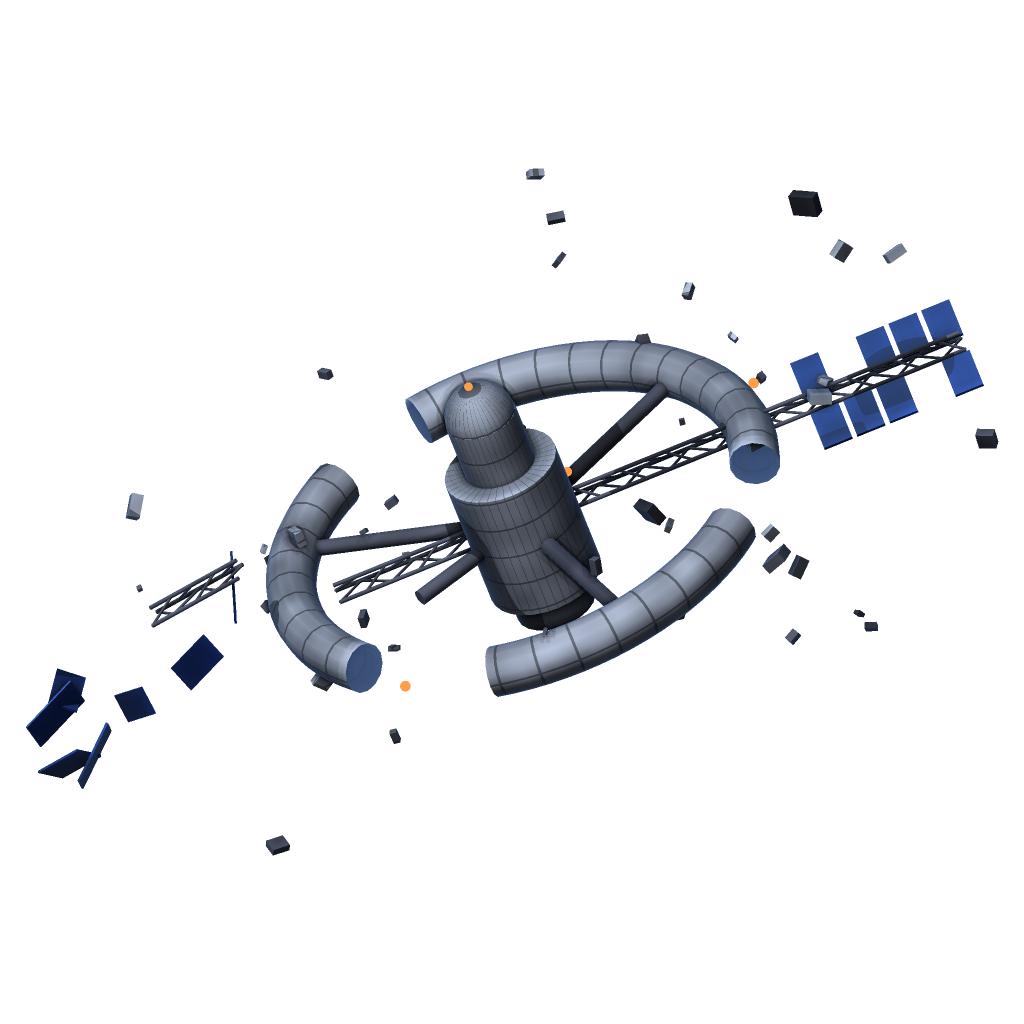
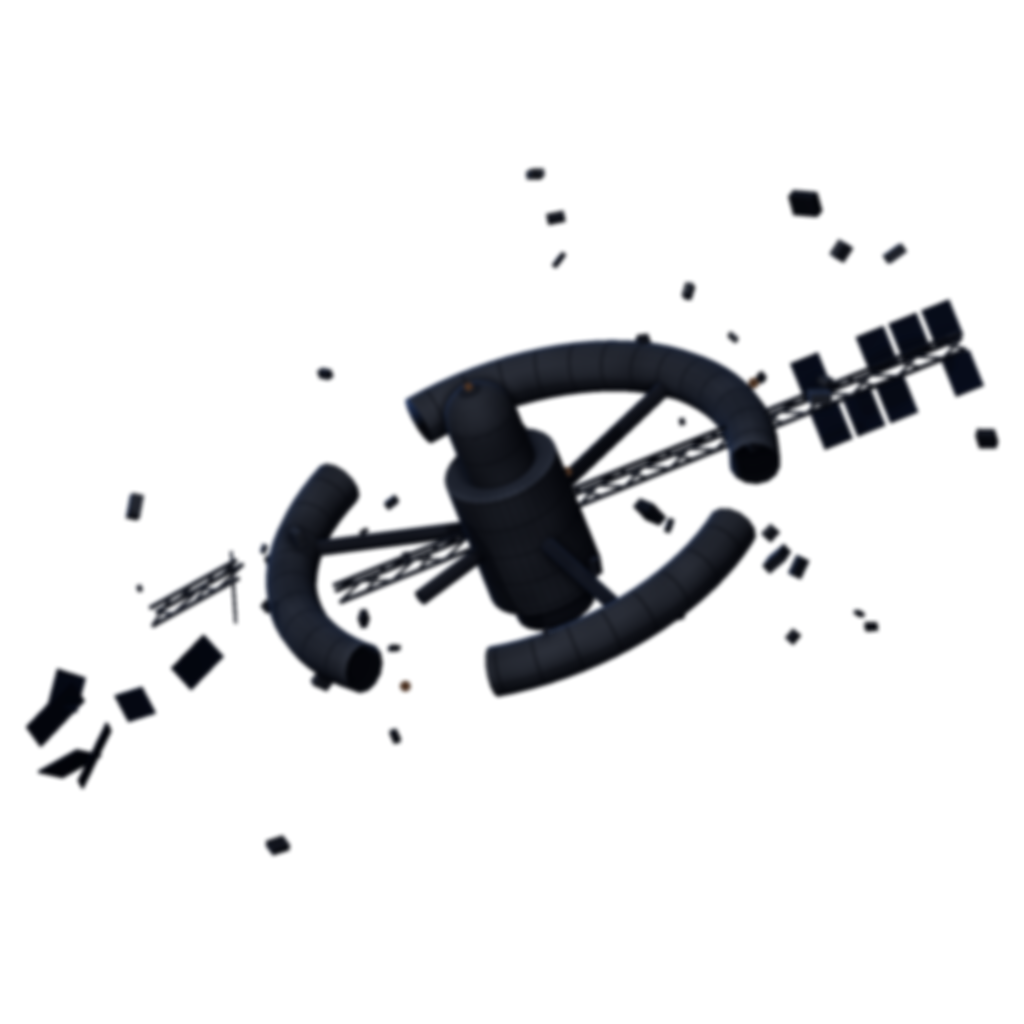
Station wreck backdrop: far, shadowed and soft, drifts slower
Rendered almost unlit with a thin cold rim, sunk into blue haze, slightly blurred, lights nearly off.

diff --git a/Assets/Filip/Tools~/StationBake.cs b/Assets/Filip/Tools~/StationBake.cs
@@ -171,6 +171,40 @@ public static class StationBake
         Sphere(V(10.9, 2.2, 0.6), 0.22, 3); Sphere(V(-7.0, -8.4, 0.3), 0.22, 3); Sphere(V(0, 0, 7.2), 0.18, 3);
     }
 
+    // Soft blur of a picture with transparency (b, g, r, a bytes). Colours are blurred weighted
+    // by their opacity, so transparent pixels do not darken the edges.
+    static byte[] Soften(byte[] px, int n, int radius)
+    {
+        float[] cur = new float[n * n * 4], tmp = new float[n * n * 4];
+        for (int i = 0; i < n * n; i++)
+        {
+            float a = px[i * 4 + 3] / 255f;
+            for (int k = 0; k < 3; k++) cur[i * 4 + k] = px[i * 4 + k] / 255f * a;
+            cur[i * 4 + 3] = a;
+        }
+        for (int pass = 0; pass < 2; pass++)
+        {
+            for (int y = 0; y < n; y++) for (int x = 0; x < n; x++) for (int k = 0; k < 4; k++)
+            {
+                float s = 0; for (int d = -radius; d <= radius; d++) { int xx = x + d; if (xx >= 0 && xx < n) s += cur[(y * n + xx) * 4 + k]; }
+                tmp[(y * n + x) * 4 + k] = s / (2 * radius + 1);
+            }
+            for (int y = 0; y < n; y++) for (int x = 0; x < n; x++) for (int k = 0; k < 4; k++)
+            {
+                float s = 0; for (int d = -radius; d <= radius; d++) { int yy = y + d; if (yy >= 0 && yy < n) s += tmp[(yy * n + x) * 4 + k]; }
+                cur[(y * n + x) * 4 + k] = s / (2 * radius + 1);
+            }
+        }
+        byte[] res = new byte[n * n * 4];
+        for (int i = 0; i < n * n; i++)
+        {
+            float a = cur[i * 4 + 3];
+            for (int k = 0; k < 3; k++) res[i * 4 + k] = (byte)(a > 0.001f ? RockBake.C01(cur[i * 4 + k] / a) * 255f : 0f);
+            res[i * 4 + 3] = (byte)(RockBake.C01(a) * 255f);
+        }
+        return res;
+    }
+
     public static string Bake(string outFile, int size)
     {
         Build();
@@ -197,7 +231,8 @@ public static class StationBake
         {
             int i = y * W + x; if (float.IsNegativeInfinity(zb[i])) continue;
             int mat = (int)mb[i];
-            if (mat == 3) { rgb[i * 3] = 1f; rgb[i * 3 + 1] = 0.62f; rgb[i * 3 + 2] = 0.28f; continue; }
+            // The lights are almost dead: a bright dot would look like something to fly to.
+            if (mat == 3) { rgb[i * 3] = 0.30f; rgb[i * 3 + 1] = 0.20f; rgb[i * 3 + 2] = 0.14f; continue; }
 
             float nx = nb[i * 3], ny = nb[i * 3 + 1], nz = nb[i * 3 + 2];
             float nl = (float)Math.Sqrt(nx * nx + ny * ny + nz * nz); if (nl < 1e-6f) nl = 1f; nx /= nl; ny /= nl; nz /= nl;
@@ -228,15 +263,19 @@ public static class StationBake
                 float k = wear * (seam ? 0.6f : 1f);
                 r = 0.60f * k; g = 0.64f * k; b = 0.72f * k;
             }
-            else if (mat == 1) { r = 0.07f * wear; g = 0.15f * wear; b = 0.40f * wear; }
+            else if (mat == 1) { r = 0.06f * wear; g = 0.10f * wear; b = 0.22f * wear; }
             else { r = 0.30f * wear; g = 0.32f * wear; b = 0.38f * wear; }
 
-            float diff = (0.10f + 0.28f * ndv + 0.85f * ndl) * ao;
-            float sheen = mat == 1 ? (float)Math.Pow(ndl, 6) * 0.35f : 0f;
-            float rim = (float)Math.Pow(1f - ndv, 3) * 0.42f;
-            rgb[i * 3] = RockBake.C01(r * diff + sheen * 0.5f + rim * 0.45f);
-            rgb[i * 3 + 1] = RockBake.C01(g * diff + sheen * 0.7f + rim * 0.65f);
-            rgb[i * 3 + 2] = RockBake.C01(b * diff + sheen + rim * 1.00f);
+            // Far away and in shadow: almost no direct light, only a thin cold edge
+            // on the side turned to the light, and everything sunk into blue haze.
+            float diff = (0.05f + 0.10f * ndv + 0.26f * ndl) * ao;
+            float lit = RockBake.C01(nx * -0.62f + ny * 0.70f + 0.15f);
+            float rim = (float)Math.Pow(1f - ndv, 2.6) * 0.50f * lit;
+            float cr = r * diff + rim * 0.35f, cg = g * diff + rim * 0.55f, cb = b * diff + rim * 0.95f;
+            const float haze = 0.30f;
+            rgb[i * 3] = RockBake.C01(cr * (1f - haze) + 0.020f * haze);
+            rgb[i * 3 + 1] = RockBake.C01(cg * (1f - haze) + 0.035f * haze);
+            rgb[i * 3 + 2] = RockBake.C01(cb * (1f - haze) + 0.090f * haze);
         }
 
         byte[] px = new byte[size * size * 4];
@@ -253,6 +292,8 @@ public static class StationBake
             px[o] = (byte)(b / n * 255f); px[o + 1] = (byte)(g / n * 255f); px[o + 2] = (byte)(r / n * 255f);
             px[o + 3] = (byte)(255f * n / (SS * SS));
         }
+        px = Soften(px, size, 2);   // slightly out of focus, unlike the crisp things in the game
+
         var bmp = new Bitmap(size, size, PixelFormat.Format32bppArgb);
         var data = bmp.LockBits(new Rectangle(0, 0, size, size), ImageLockMode.WriteOnly, PixelFormat.Format32bppArgb);
         Marshal.Copy(px, 0, data.Scan0, px.Length);

diff --git a/Assets/Filip/Scripts/ParallaxBackground.cs b/Assets/Filip/Scripts/ParallaxBackground.cs
@@ -81,14 +81,16 @@ public class ParallaxBackground : MonoBehaviour
 
         // Size in units, place on screen (units from the screen center, when the player
         // is in the middle of the level) and colour. Kept dim: it is only scenery.
-        float size = 20f;
+        // The slower an object drifts across the screen, the farther away it feels.
+        float size = 20f, parallax = Tuning.BackdropParallax;
         Vector2 offset = new Vector2(8f, 4f);
         Color color = new Color(1f, 1f, 1f, 0.7f);
         switch (name)
         {
-            case "sun": size = 14f; offset = new Vector2(11f, 6f); color = new Color(1f, 1f, 1f, 0.8f); break;
-            // The station wreck is a full 3D render; darkened and cooled so it stays far away.
-            case "wreck": size = 32f; offset = new Vector2(4f, 2f); color = new Color(0.42f, 0.47f, 0.62f, 1f); break;
+            case "sun": size = 14f; offset = new Vector2(11f, 6f); color = new Color(1f, 1f, 1f, 0.8f); parallax = 0.04f; break;
+            // The station wreck is rendered dark, hazy and slightly out of focus: it must read
+            // as far scenery in shadow, not as something the player can fly to.
+            case "wreck": size = 34f; offset = new Vector2(4f, 2f); color = new Color(0.85f, 0.9f, 1f, 1f); parallax = 0.06f; break;
             case "planet": size = 46f; offset = new Vector2(16f, -8f); color = new Color(1f, 1f, 1f, 0.85f); break;
         }
 
@@ -96,7 +98,7 @@ public class ParallaxBackground : MonoBehaviour
         if (sr == null) return;
         sr.color = color;
         sr.gameObject.AddComponent<ParallaxBackground>()
-            .Setup(anchor, Tuning.BackdropParallax, size, Mode.Free, offset);
+            .Setup(anchor, parallax, size, Mode.Free, offset);
     }
 
     void Setup(Vector2 anchor, float factor, float size, Mode mode, Vector2 baseOffset)
